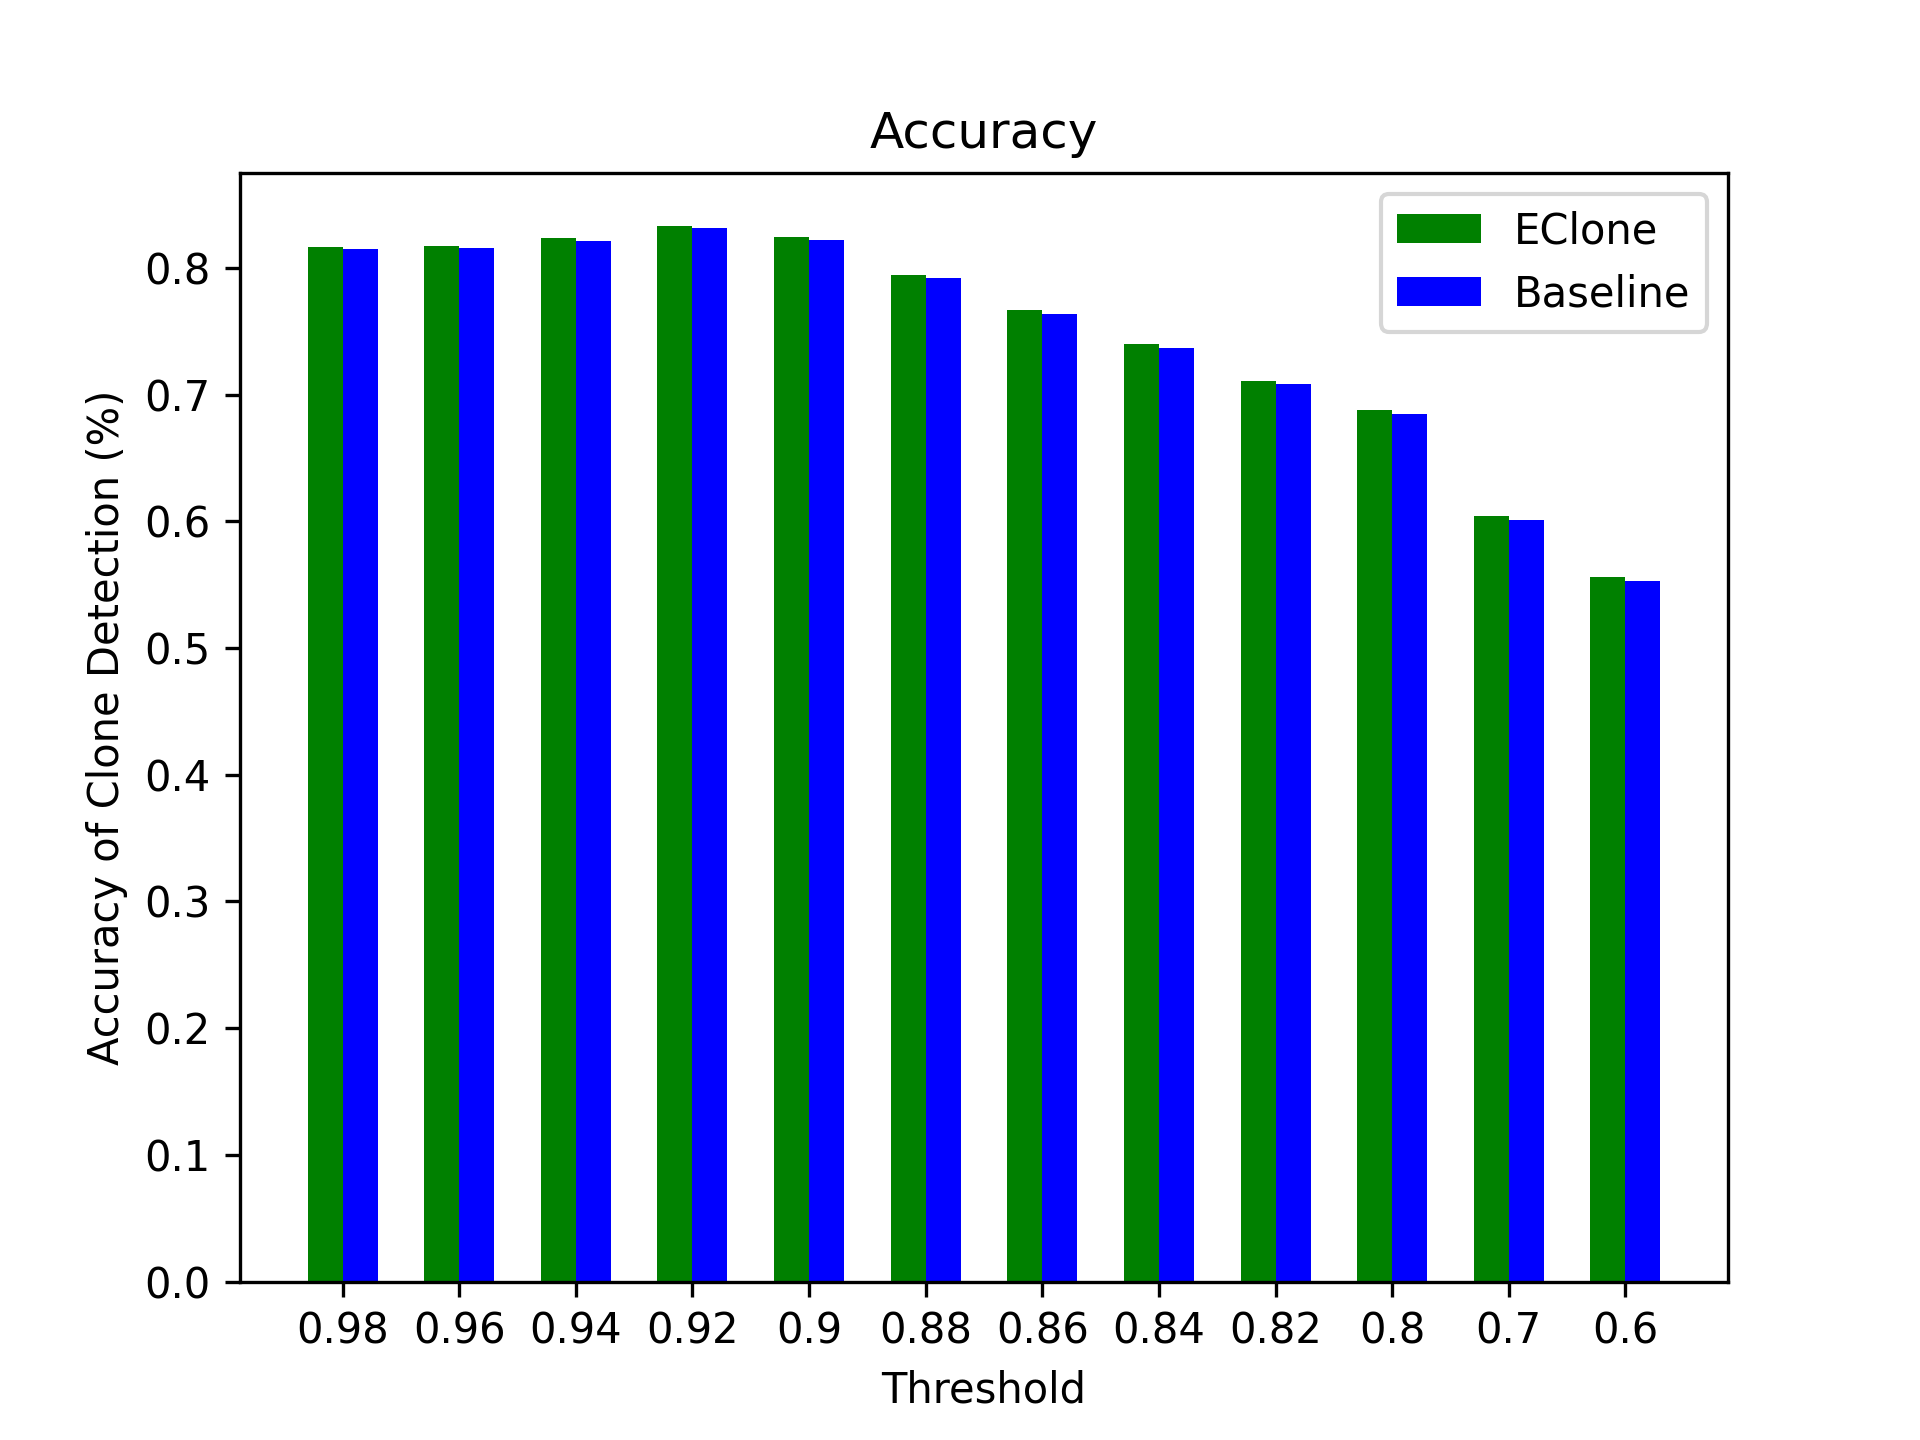
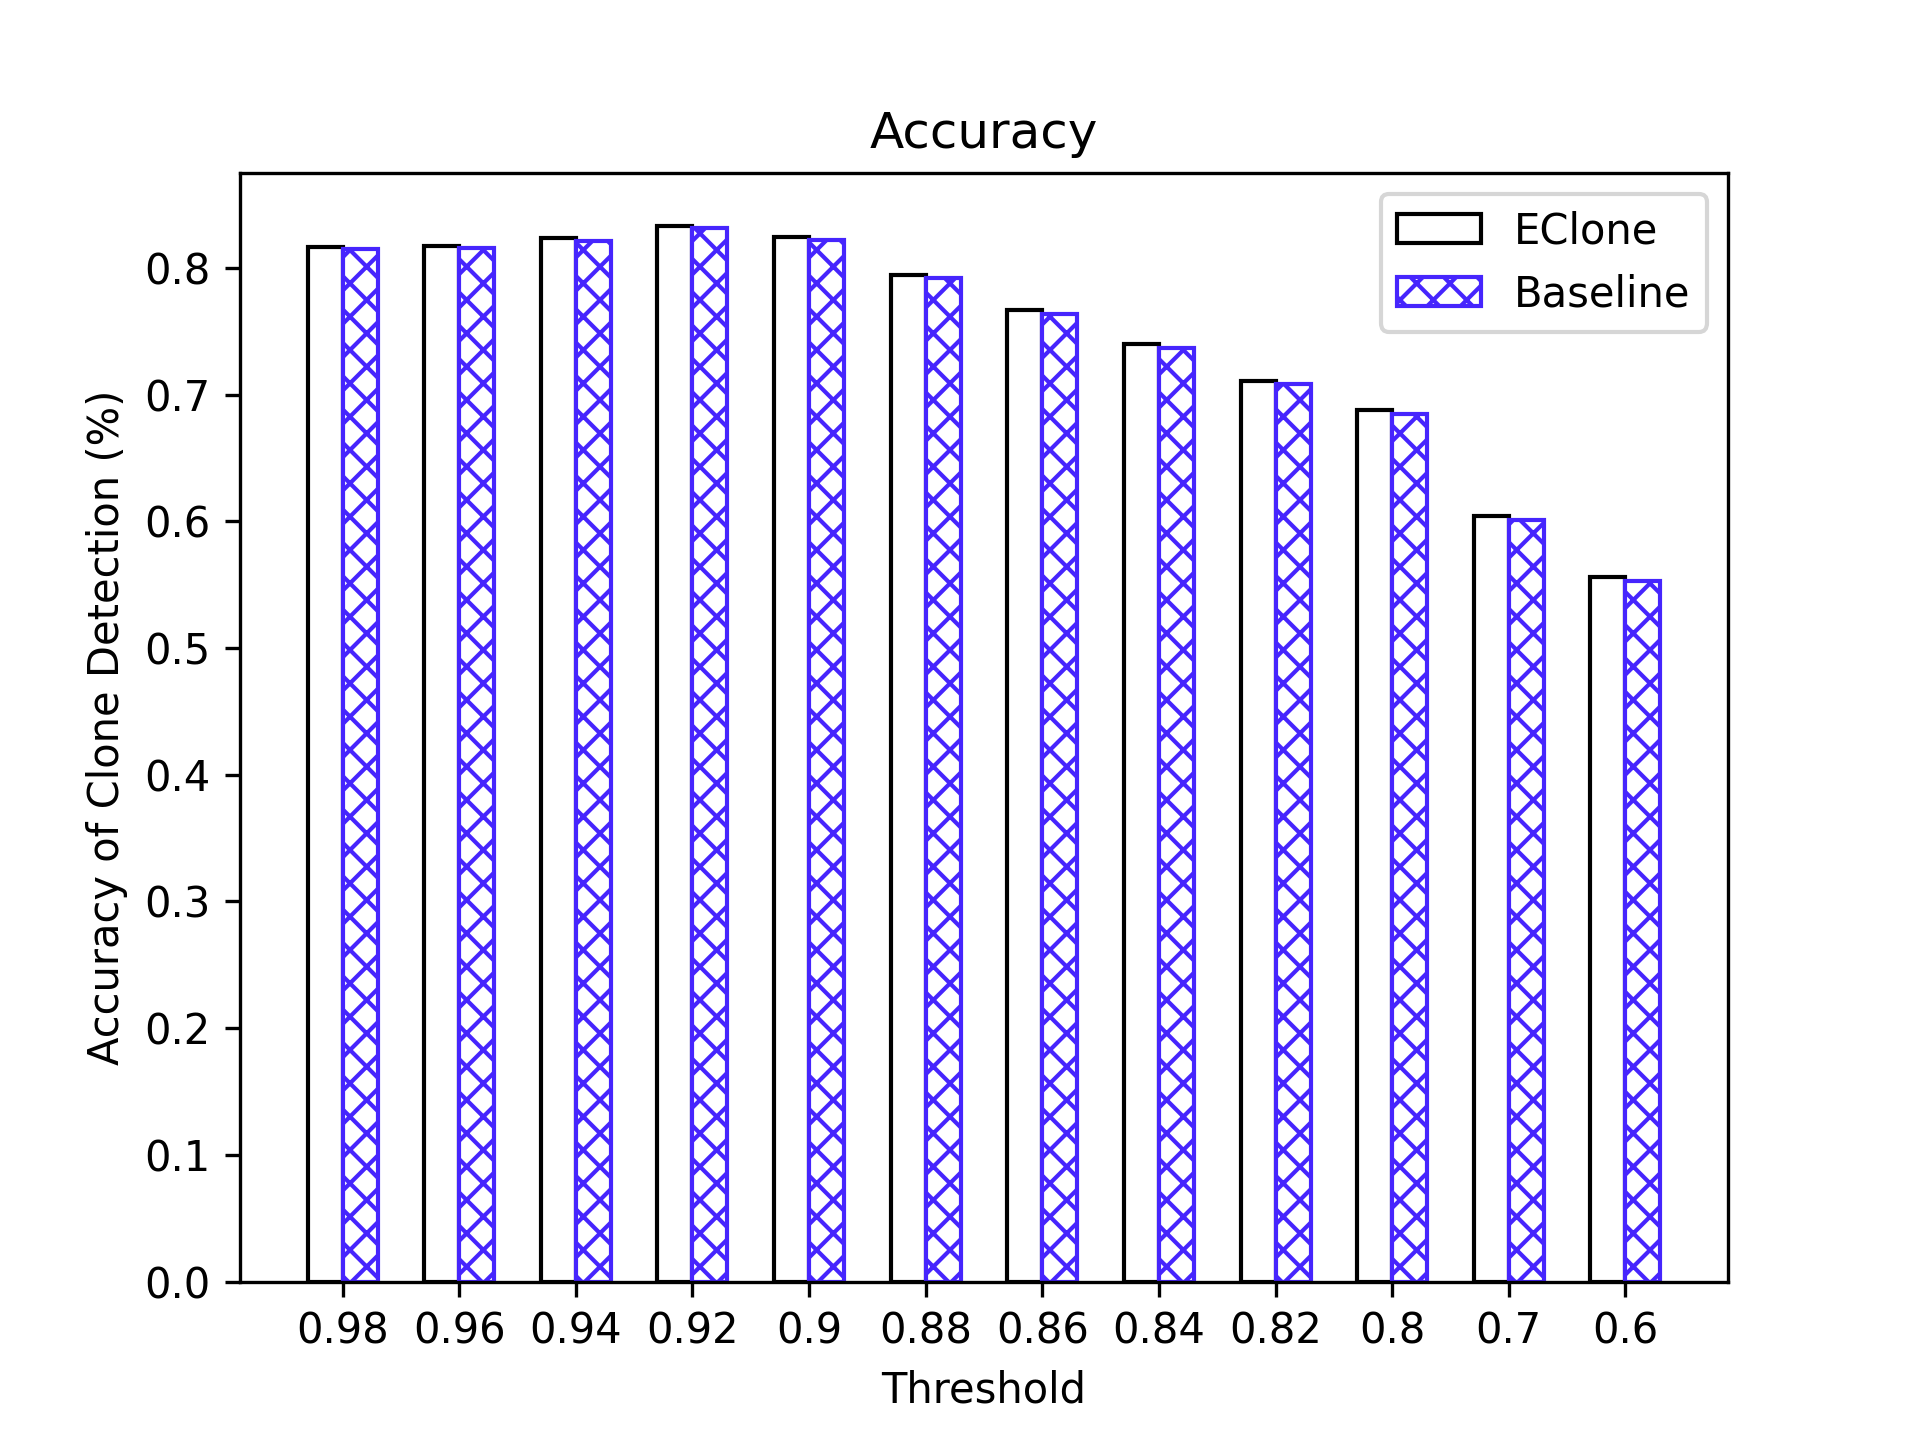
[MODIFY] plot style

diff --git a/plot.py b/plot.py
@@ -3,12 +3,14 @@ import pandas as pd
 from sklearn.metrics import roc_curve
 import numpy as np
 
+
 def get_acc(df, t):
     pred_pos = df[df['score'] > t]
     pred_neg = df[df['score'] <= t]
     acc = (pred_pos[pred_pos['label'] == 1].shape[0] + pred_neg[pred_neg['label'] == -1].shape[0]) / \
           df.shape[0]
     return acc
+
 
 class Plot():
     def __init__(self, eclone_res, baseline_res):
@@ -24,28 +26,29 @@ class Plot():
         bar_width = 0.3
         idx_eclone = np.arange(len(thresholds))
         idx_baseline = idx_eclone + bar_width
-        plt.bar(idx_eclone, height=eclone_acc, width=bar_width, color='g', label='EClone')
-        plt.bar(idx_baseline, height=baseline_acc, width=bar_width, color='b', label='Baseline')
-        plt.xticks(idx_eclone + bar_width/2, thresholds)
+        plt.bar(idx_eclone, height=eclone_acc, width=bar_width, color='white', edgecolor='black', label='EClone')
+        plt.bar(idx_baseline, height=baseline_acc, width=bar_width, color='white', hatch='xxx', edgecolor='#4625fd',
+                label='Baseline')
+        plt.xticks(idx_eclone + bar_width / 2, thresholds)
         plt.xlabel('Threshold')
         plt.ylabel('Accuracy of Clone Detection (%)')
         plt.title('Accuracy')
         plt.legend(loc='best')
         plt.savefig('./Accuracy_test.png', dpi=300)
 
-
     def roc(self):
         fpr_ec, tpr_ec, thresholds_ec = roc_curve(list(self.eclone_res['label']), list(self.eclone_res['score']))
         fpr_bl, tpr_bl, thresholds_bl = roc_curve(list(self.baseline_res['label']), list(self.baseline_res['score']))
-        plt.plot(fpr_ec, tpr_ec, label='EClone')
-        plt.plot(fpr_bl, tpr_bl, label='Baseline')
+        plt.plot(fpr_ec, tpr_ec, label='EClone', color='r')
+        plt.plot(fpr_bl, tpr_bl, label='Baseline', color='g', linestyle='--')
         plt.title('ROC')
         plt.xlabel("False Positive Rate (%)", fontsize=15)
         plt.ylabel("True Positive Rate (%)", fontsize=15)
         plt.legend(loc='best')
         plt.savefig('./ROC_test.png', dpi=300)
 
+
 if __name__ == '__main__':
     p = Plot('./test_EClone_final.csv', './test_Baseline_final.csv')
-    p.roc()
-    # p.acc()
+    # p.roc()
+    p.acc()
